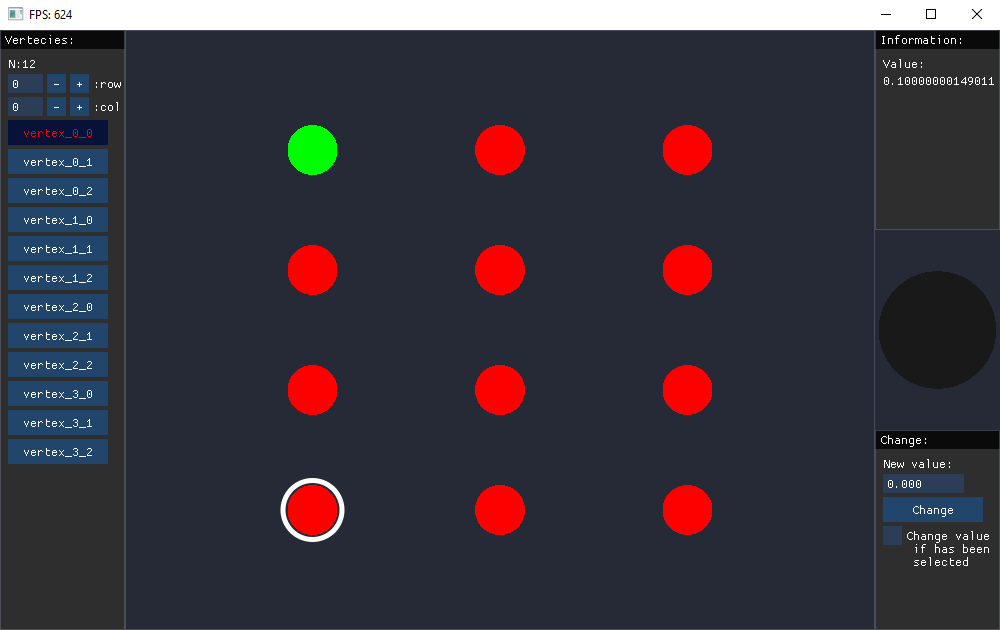
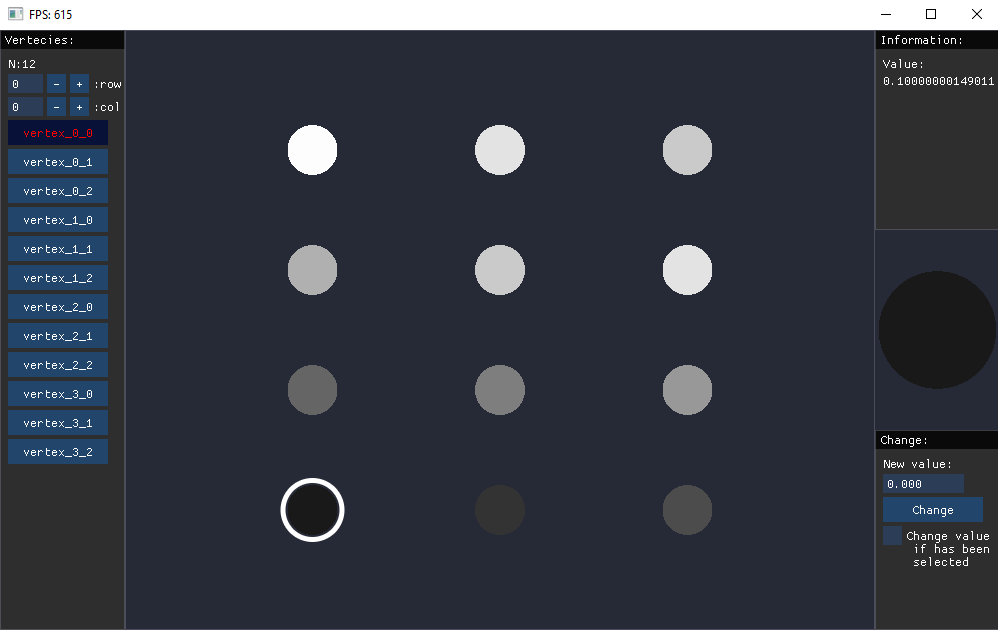
change color of float values beetween black and while

diff --git a/Float(Advance)/Visualize_Float_Tensor_GL_IMGUI.py b/Float(Advance)/Visualize_Float_Tensor_GL_IMGUI.py
@@ -64,21 +64,8 @@ class GUI:
 
         void main()
         {
-            if (Isdata == 1.0){
-                if (texture(ourTexture, TexCoord).g >= 1.0){
-                    FragColor = vec4(0.0f, 1.0f, 0.0f, 1.0f);
-                }
-                else{
-                    FragColor = vec4(texture(ourTexture, TexCoord).ggg, 1.0f);
-                }
-            }
-            else{
-                if (texture(ourTexture, TexCoord).g>=1.0)
-                    FragColor = vec4(0.0f, 1.0f, 0.0f, 1.0f);
-                else
-                    FragColor = vec4(1.0f, 0.0f, 0.0f, 1.0f);
-                    //FragColor = vec4(1.0f, 0.0f, 0.0f, 1.0f);
-            }
+            FragColor = vec4(texture(ourTexture, TexCoord).ggg, 1.0f);
+           
         }
         """
     def imguiUI(self):
